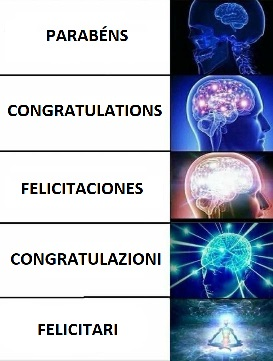
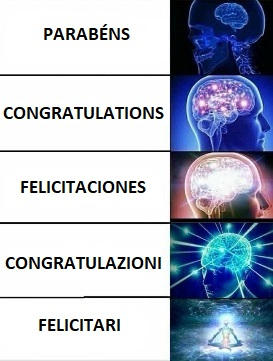
Inclusao de imagens e alteracao de estilo

diff --git a/estilos/style.css b/estilos/style.css
@@ -1,11 +1,31 @@
 h1 {
     font-family: Arial, Helvetica, sans-serif;
     font-size: 16px;
-    color: blueviolet;
+    text-align: center;
+}
+
+h2{
+    font-family: Arial, Helvetica, sans-serif;
+    font-size: 12px;
+    text-align: center;
 }
 
 body{
     background-color: rgb(191, 142, 238);
+}
+
+img.mind-exploding{
+    display: block;
+    margin-left: auto;
+    margin-right: auto;
+    border:4px solid black;
+}
+
+img.gif{
+    display: block;
+    margin-left: auto;
+    margin-right: auto;
+    width: 20%;
 }
 
 main {

diff --git a/index.html b/index.html
@@ -10,7 +10,12 @@
 </head>
 <body>
     <main>
-        <img src="imagens/mind_exploding-css.jpg" alt="Imagem Mind Exploding Parabens">
-    </main>
+        <h1>PRIMEIRAMENTE:</h1>
+        <img class=mind-exploding src="imagens/mind_exploding-css.jpg" alt="Imagem Mind Exploding Parabens">
+        <br>
+        <br>
+        <h2>Clique na imagem abaixo para revelar seu presente</h2>
+        <img class=gif src="imagens/figurinha.gif" alt="Figurinha do Whatsapp">
+    </main>    
 </body>
 </html>
